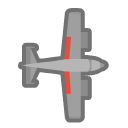
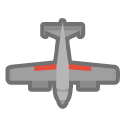
added rotation when minion change path

diff --git a/public/scripts/app.js b/public/scripts/app.js
@@ -326,7 +326,10 @@ $(document).ready(function() {
 			// "margin-top": `+=${minionSpeed}px`
 			"top" : `+=${minion_displacement[0].distance}px`,
 
-			}, Number(`${minion_displacement[0].time/minion.speed*10}`), 'linear', function(){minion.pathIndex++;});
+			}, Number(`${minion_displacement[0].time/minion.speed*10}`), 'linear', function(){
+				minion.pathIndex++;
+				minion_selector.css("-webkit-transform", "rotate(270deg)");
+			});
 		hp_selector.animate({
 			"top": `+=${minion_displacement[0].distance}px`,
 		}, Number(`${minion_displacement[0].time/minion.speed*10}`), 'linear');
@@ -335,7 +338,10 @@ $(document).ready(function() {
 		minion_selector.animate({
 			// "margin-top": `+=${minionSpeed}px`
 			"left" : `+=${minion_displacement[1].distance}px`,
-			}, Number(`${minion_displacement[1].time/minion.speed*10}`), 'linear', function(){minion.pathIndex++;});
+			}, Number(`${minion_displacement[1].time/minion.speed*10}`), 'linear', function(){
+				minion.pathIndex++;
+				minion_selector.css("-webkit-transform", "rotate(180deg)");
+			});
 		hp_selector.animate({
 			"left": `+=${minion_displacement[1].distance}px`,
 		}, Number(`${minion_displacement[1].time/minion.speed*10}`), 'linear');
@@ -344,7 +350,10 @@ $(document).ready(function() {
 		minion_selector.animate({
 			// "margin-top": `+=${minionSpeed}px`
 			"top" : `-=${minion_displacement[2].distance}px`,
-			}, Number(`${minion_displacement[2].time/minion.speed*10}`), 'linear', function(){minion.pathIndex++;});
+			}, Number(`${minion_displacement[2].time/minion.speed*10}`), 'linear', function(){
+				minion.pathIndex++;
+				minion_selector.css("-webkit-transform", "rotate(270deg)");
+			});
 		hp_selector.animate({
 			"top": `-=${minion_displacement[2].distance}px`,
 		}, Number(`${minion_displacement[2].time/minion.speed*10}`), 'linear');
@@ -353,7 +362,10 @@ $(document).ready(function() {
 		minion_selector.animate({
 			// "margin-top": `+=${minionSpeed}px`
 			"left" : `+=${minion_displacement[3].distance}px`,
-			}, Number(`${minion_displacement[3].time/minion.speed*10}`), 'linear', function(){minion.pathIndex++;});
+			}, Number(`${minion_displacement[3].time/minion.speed*10}`), 'linear', function(){
+				minion.pathIndex++;
+				minion_selector.css("-webkit-transform", "rotate(360deg)");
+			});
 		hp_selector.animate({
 			"left": `+=${minion_displacement[3].distance}px`,
 		}, Number(`${minion_displacement[3].time/minion.speed*10}`), 'linear');
@@ -362,7 +374,10 @@ $(document).ready(function() {
 		minion_selector.animate({
 			// "margin-top": `+=${minionSpeed}px`
 			"top" : `+=${minion_displacement[4].distance}px`,
-			}, Number(`${minion_displacement[4].time/minion.speed*10}`), 'linear', function(){minion.pathIndex++;});
+			}, Number(`${minion_displacement[4].time/minion.speed*10}`), 'linear', function(){
+				minion.pathIndex++;
+				minion_selector.css("-webkit-transform", "rotate(90deg)");
+			});
 		hp_selector.animate({
 			"top": `+=${minion_displacement[4].distance}px`,
 		}, Number(`${minion_displacement[4].time/minion.speed*10}`), 'linear');
@@ -371,7 +386,10 @@ $(document).ready(function() {
 		minion_selector.animate({
 			// "margin-top": `+=${minionSpeed}px`
 			"left" : `-=${minion_displacement[5].distance}px`,
-			}, Number(`${minion_displacement[5].time/minion.speed*10}`), 'linear', function(){minion.pathIndex++;});
+			}, Number(`${minion_displacement[5].time/minion.speed*10}`), 'linear', function(){
+				minion.pathIndex++;
+				minion_selector.css("-webkit-transform", "rotate(360deg)");
+			});
 		hp_selector.animate({
 			"left": `-=${minion_displacement[5].distance}px`,
 		}, Number(`${minion_displacement[5].time/minion.speed*10}`), 'linear');
@@ -380,7 +398,10 @@ $(document).ready(function() {
 		minion_selector.animate({
 			// "margin-top": `+=${minionSpeed}px`
 			"top" : `+=${minion_displacement[6].distance}px`,
-			}, Number(`${minion_displacement[6].time/minion.speed*10}`), 'linear', function(){minion.pathIndex++;});
+			}, Number(`${minion_displacement[6].time/minion.speed*10}`), 'linear', function(){
+				minion.pathIndex++;
+				minion_selector.css("-webkit-transform", "rotate(270deg)");
+			});
 		hp_selector.animate({
 			"top": `+=${minion_displacement[6].distance}px`,
 		}, Number(`${minion_displacement[6].time/minion.speed*10}`), 'linear');

diff --git a/public/css/gameboard.css b/public/css/gameboard.css
@@ -21,7 +21,7 @@ header{
 	width: 400px;
 	height: 100%;
 	padding: 0;
-	margin: 0 55px 0 0;
+	margin: 0 40px 0 0;
 }
 .player_stats{
 	margin: 10px 0 10px 0 ;
